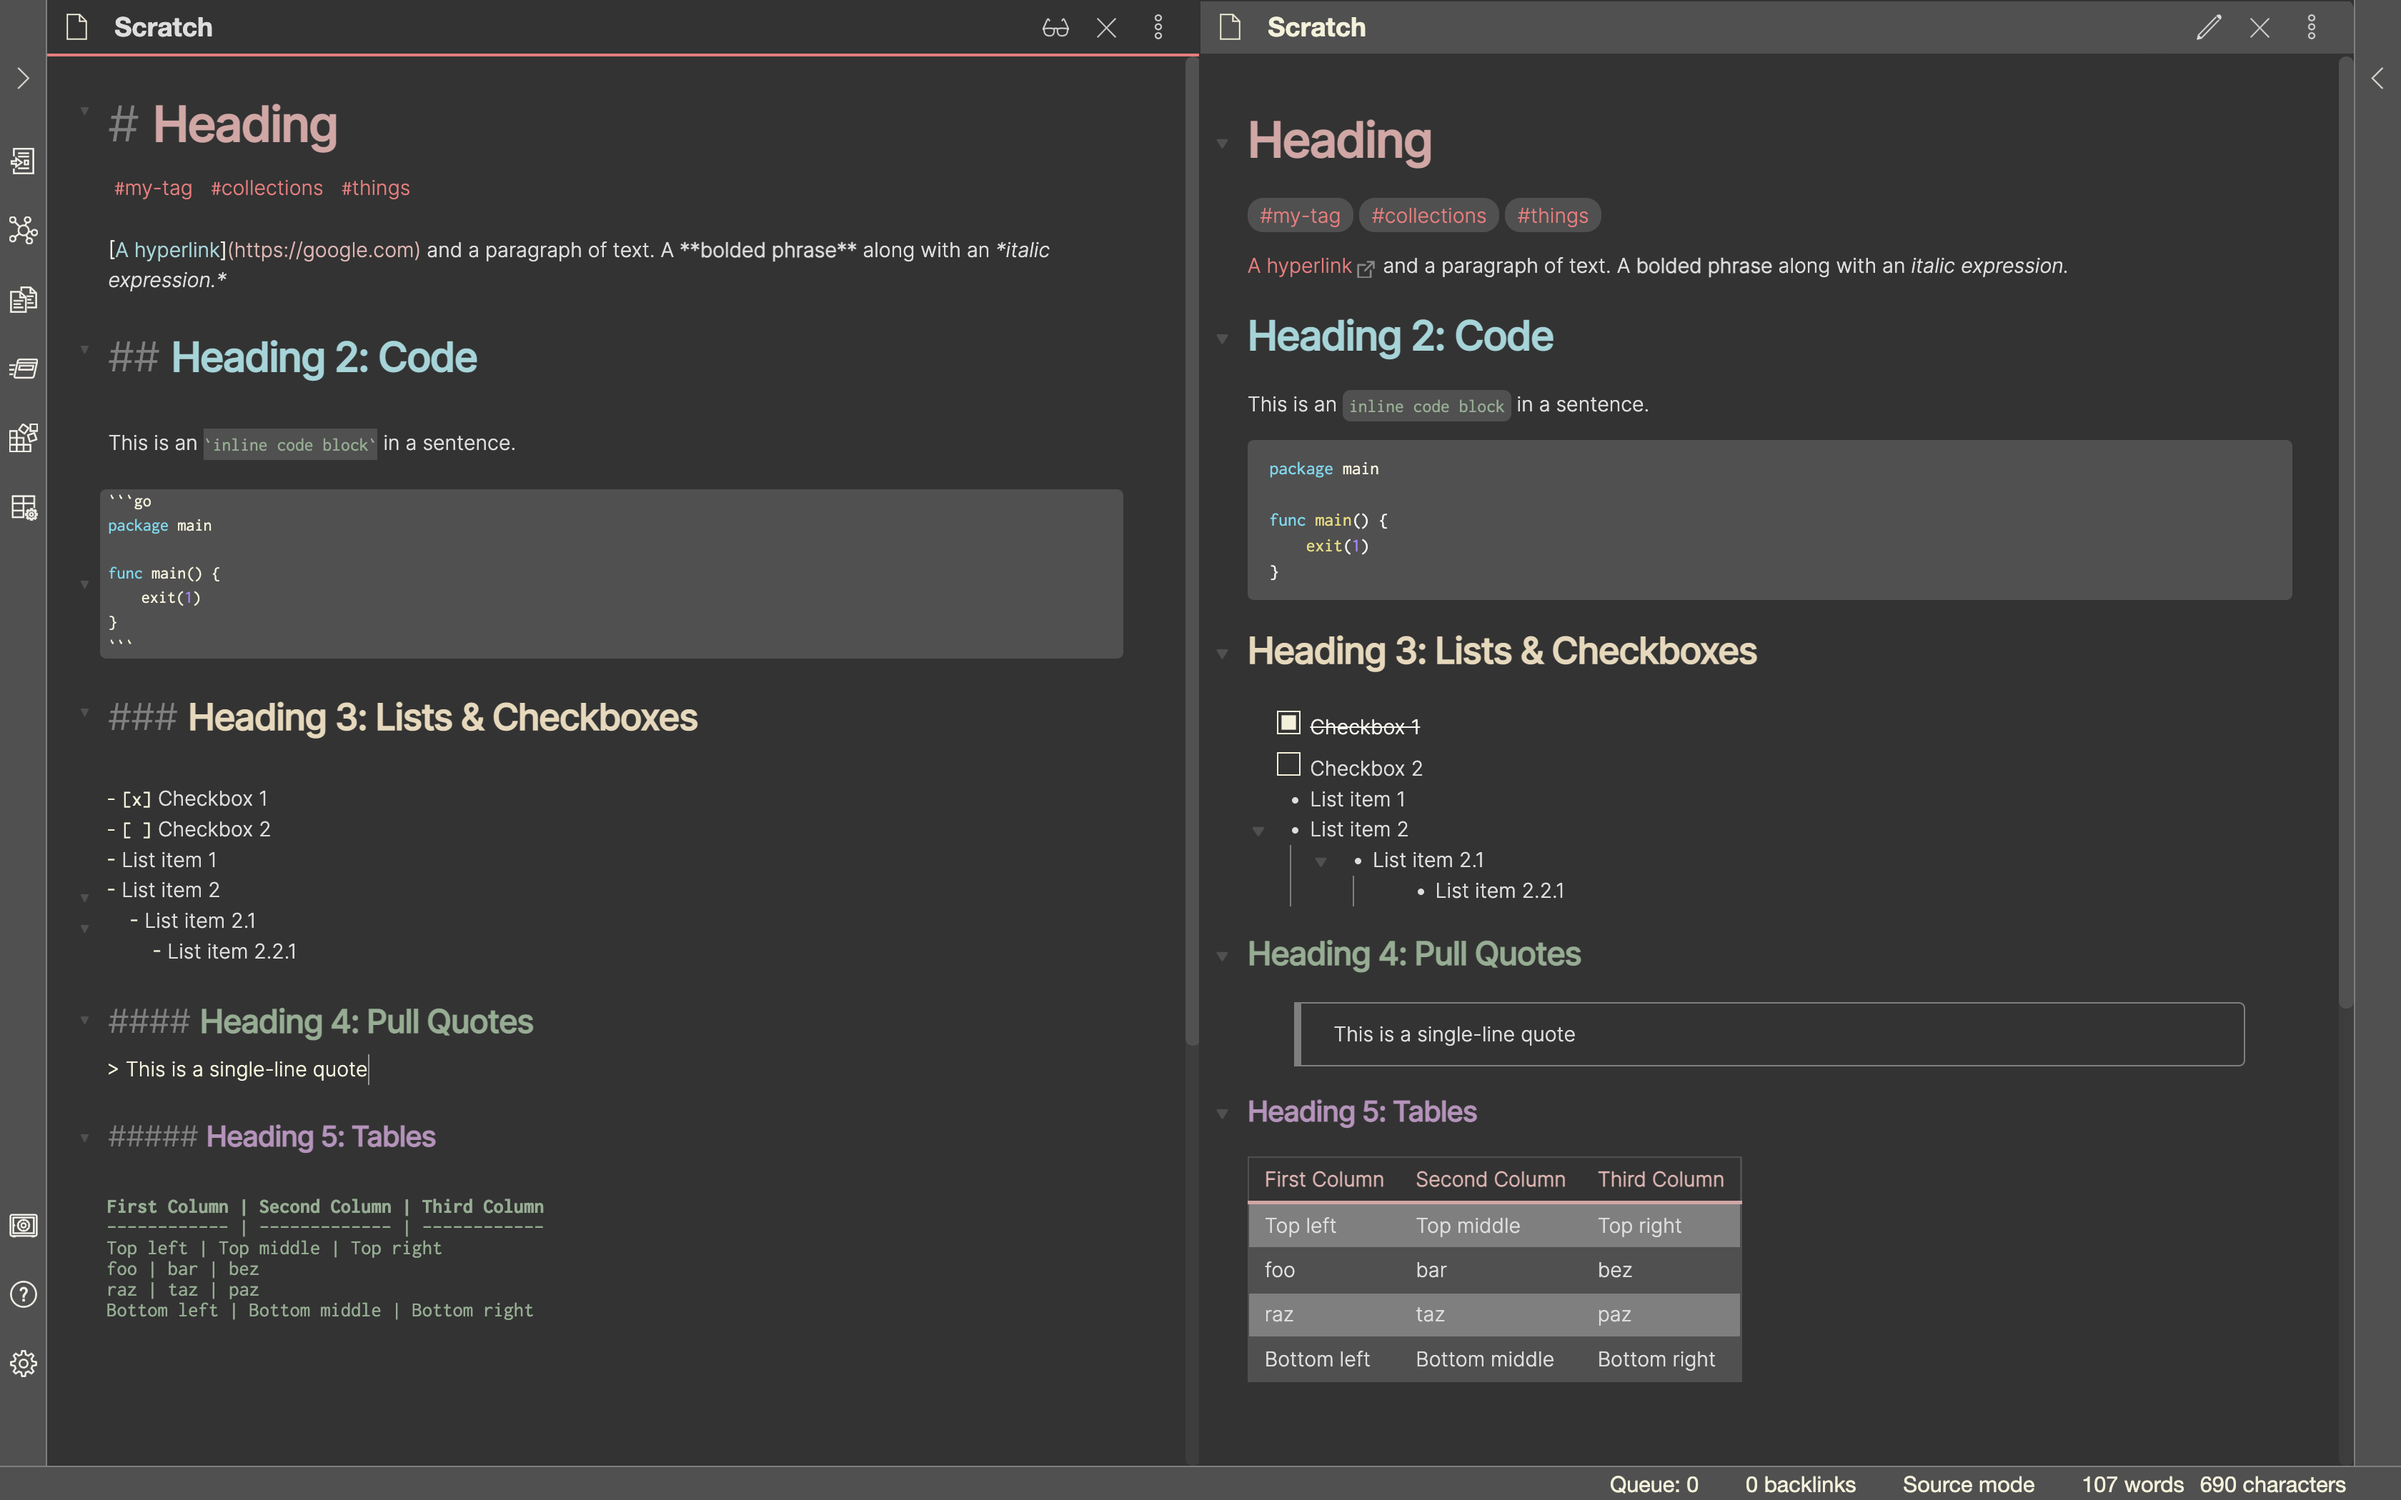
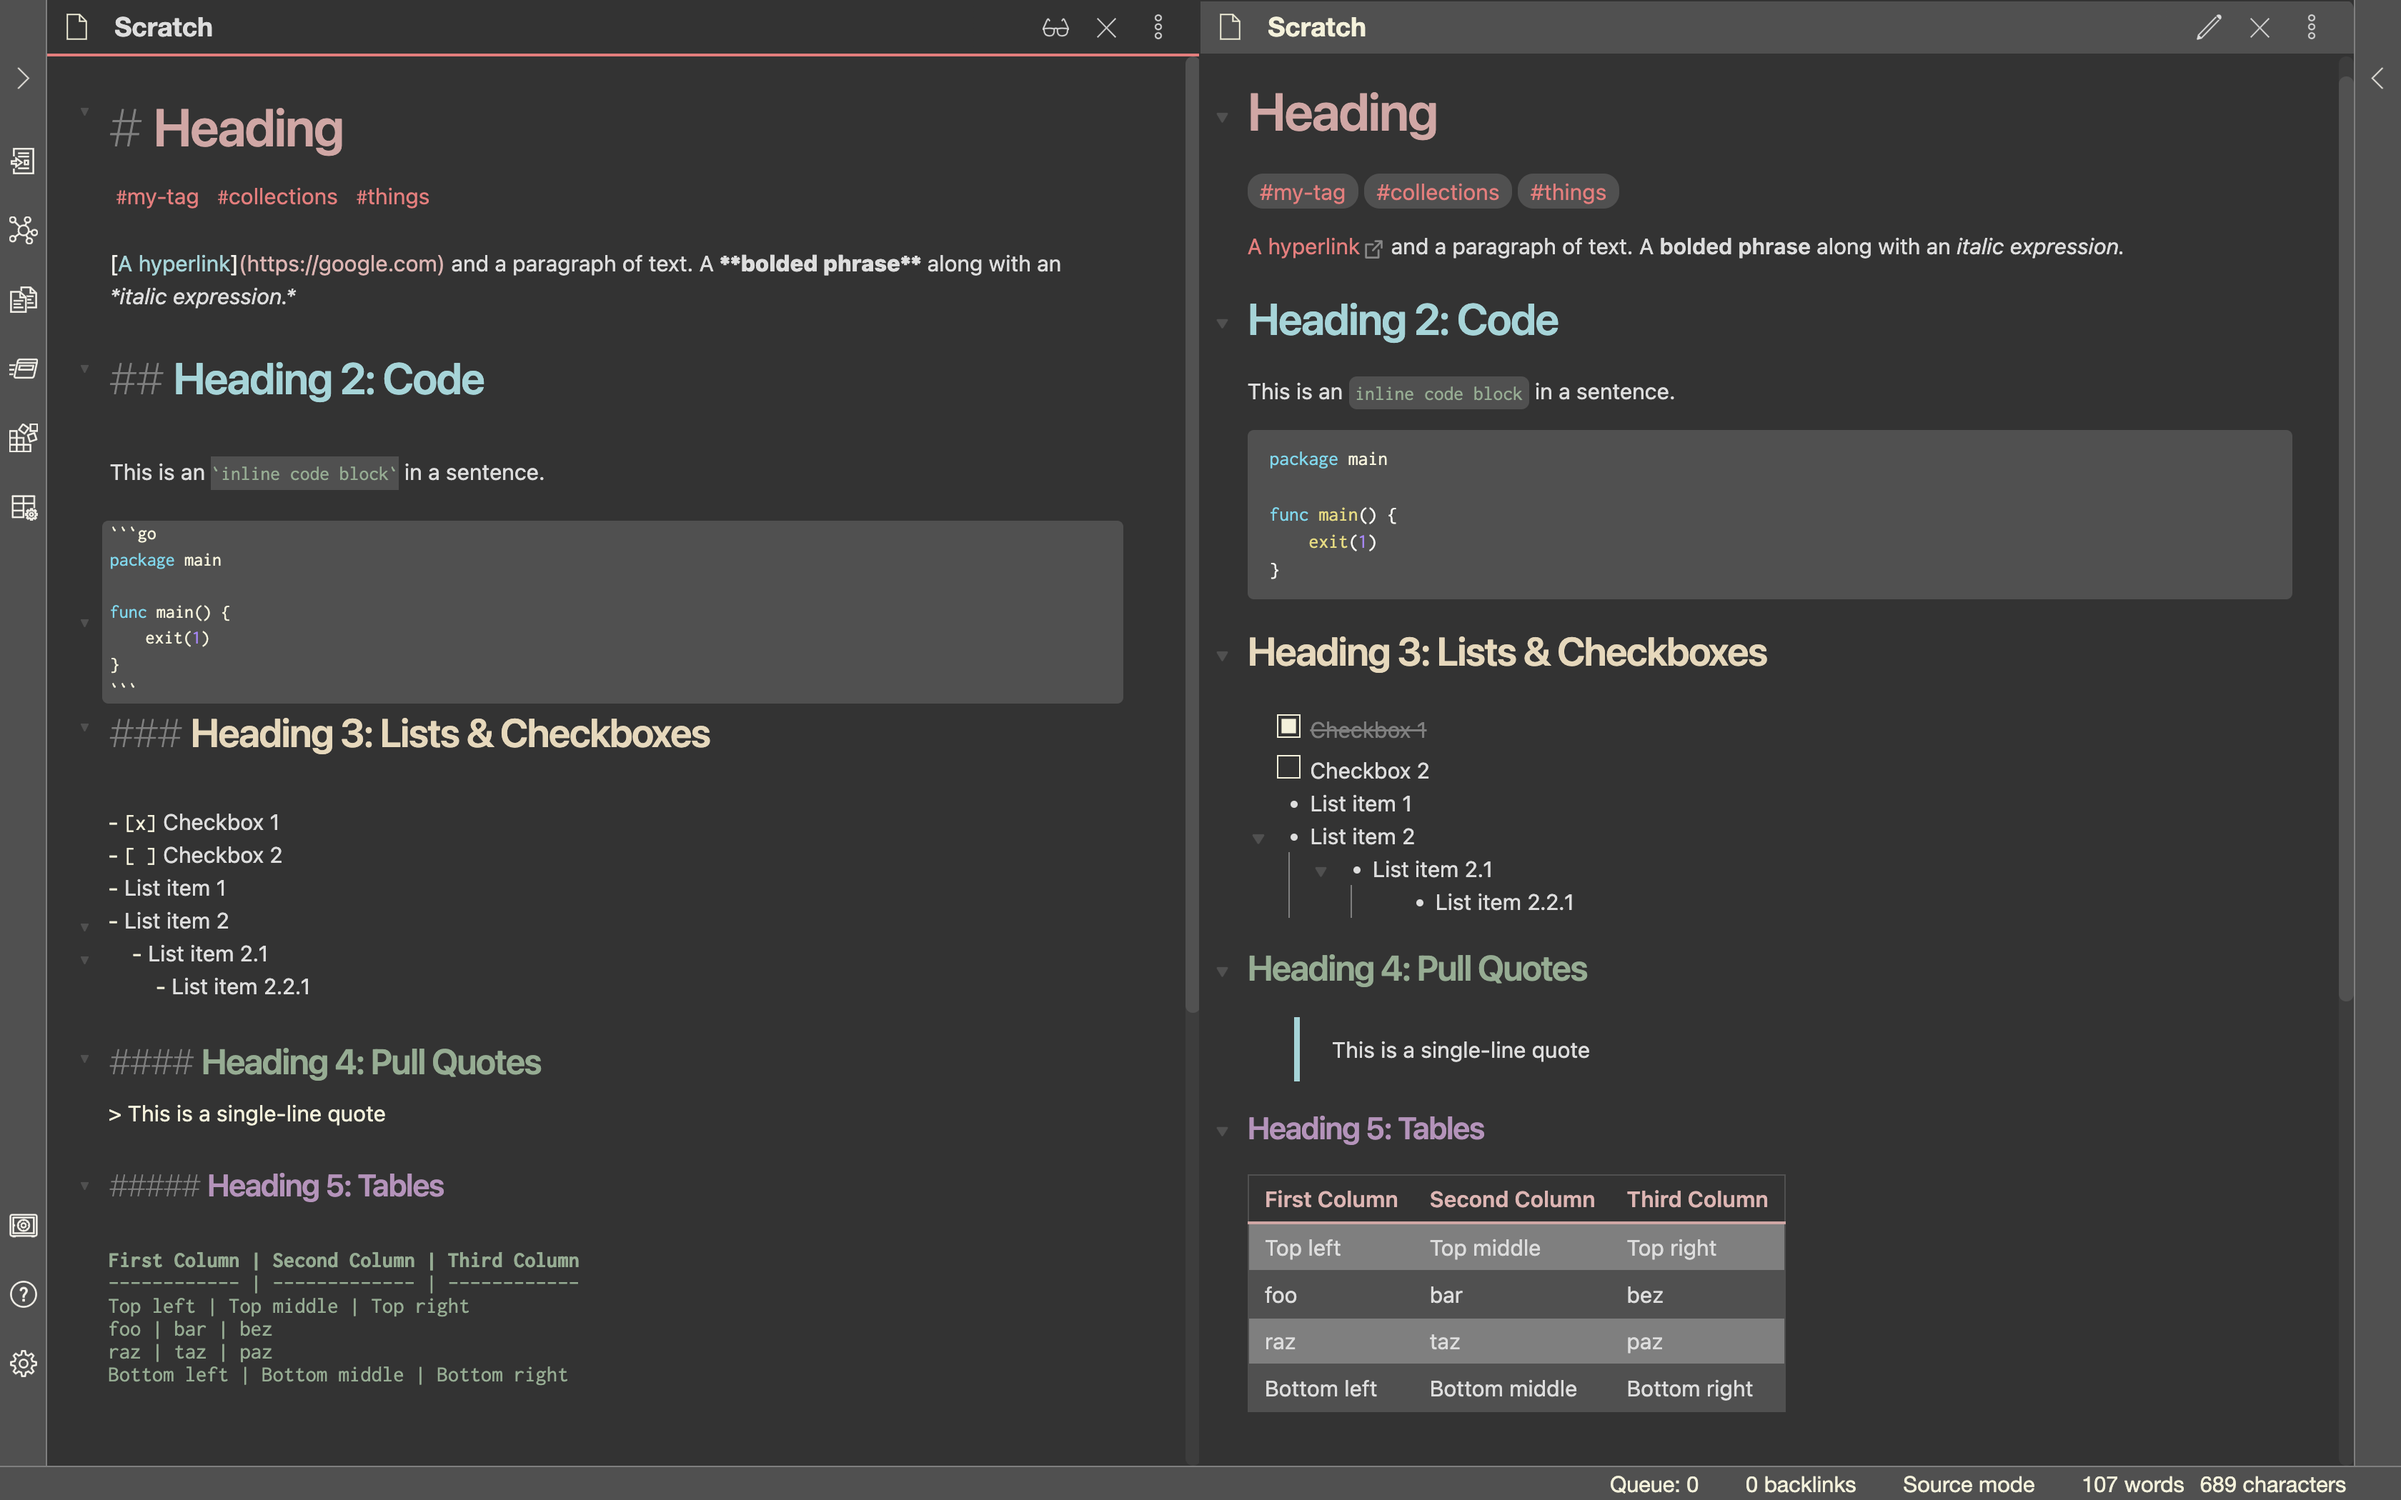
Fix font weights, block quotes, and checked items

diff --git a/obsidian.css b/obsidian.css
@@ -1,4 +1,4 @@
-@import url('https://fonts.googleapis.com/css2?family=Inter&display=swap');
+@import url('https://fonts.googleapis.com/css2?family=Inter:wght@200..600&display=swap');
 
 :root
 {
@@ -69,7 +69,8 @@
     --table-hover:                var(--blue-bright);
 }
 
-body {
+body
+{
   --font-text-theme: 'Inter Light', -apple-system, BlinkMacSystemFont, Helvetica, Arial, sans-serif;
   --font-header-text-theme: 'Inter Medium', -apple-system, BlinkMacSystemFont, Helvetica, Arial, sans-serif;
   --font-monospace-theme: 'Inconsolata', 'Source Code Pro', ui-monospace, monospace;
@@ -131,14 +132,16 @@ a:hover,
     text-decoration: none !important;
 }
 
-a.tag, a.tag:hover {
+a.tag, a.tag:hover
+{
   color: var(--text-tag) !important;
   background-color: var(--black);
   padding: 3px 8px;
   border-radius: 10px;
 }
 
-a.tag:hover {
+a.tag:hover
+{
     text-decoration: underline !important;
 }
 
@@ -147,11 +150,13 @@ mark
     background-color: var(--text-mark);
 }
 
-.titlebar {
+.titlebar
+{
   background-color: var(--background-secondary-alt);
 }
 
-.titlebar-inner {
+.titlebar-inner
+{
   color: var(--text-normal);
 }
 
@@ -189,12 +194,14 @@ mark
 }
 
 
-table {
+table
+{
     border: 1px solid var(--background-secondary) !important;
     border-collapse: collapse;
 }
   
-th {
+th
+{
     font-weight: 600 !important;
     border: 0px !important;
     border-bottom: 2px solid var(--red) !important;
@@ -203,7 +210,8 @@ th {
     color: var(--red-bright);
 }
 
-td {
+td
+{
     border-left: 0px !important;
     border-right: 0px !important;
     border-bottom: 1px solid var(--background-secondary) !important;
@@ -211,7 +219,8 @@ td {
 
 tr:nth-child(even){ background-color: var(--table-row-even) }
 tr:nth-child(odd){ background-color: var(--table-row-odd) }
-tr:hover { background-color: var(--table-hover); }
+tr:hover
+{ background-color: var(--table-hover); }
   
 thead
 {
@@ -261,7 +270,8 @@ thead
     padding-top: 0 !important;
 }
 
-.cm-formatting-header {
+.cm-formatting-header
+{
     font-family: var(--font-text-theme);
     color: var(--black-bright) !important;
     font-weight: 200 !important;
@@ -446,7 +456,7 @@ h1, h2, h3, h4, h5, h6
 {
     font-family: var(--font-header-text-theme);
     letter-spacing: -0.03em;
-    font-weight: 800 !important;
+    font-weight: 600 !important;
 }
 
 .HyperMD-header-1,
@@ -529,14 +539,21 @@ h1, h2, h3, h4, h5, h6
     opacity: 60% !important;
 }
 
-input.task-list-item-checkbox {
+li.task-list-item.is-checked
+{
+    color: var(--black-bright) !important;
+}
+
+input.task-list-item-checkbox
+{
     border: 1px solid var(--task-checkbox);
     appearance: none;
     -webkit-appearance: none;
     filter: none;
 }
 
-input.task-list-item-checkbox:checked {
+input.task-list-item-checkbox:checked
+{
     background-color: var(--task-checkbox);
     box-shadow: inset 0 0 0 2px var(--background-primary);
 }
@@ -546,11 +563,20 @@ input.task-list-item-checkbox:checked {
     fill: var(--blue-dim) !important;
 }
 
-.setting-item-control input[type="text"] {
+.setting-item-control input[type="text"]
+{
     color: var(--text-normal);
 }
-.setting-item-control input[type="text"]::placeholder {
+.setting-item-control input[type="text"]::placeholder
+{
     color: var(--blue-dim);
+}
+
+.markdown-rendered blockquote 
+{
+    border-width: 0;
+    border-left-width: 4px;
+    border-color: var(--cyan-bright)
 }
 
 /* Collapse/folding indicators */
